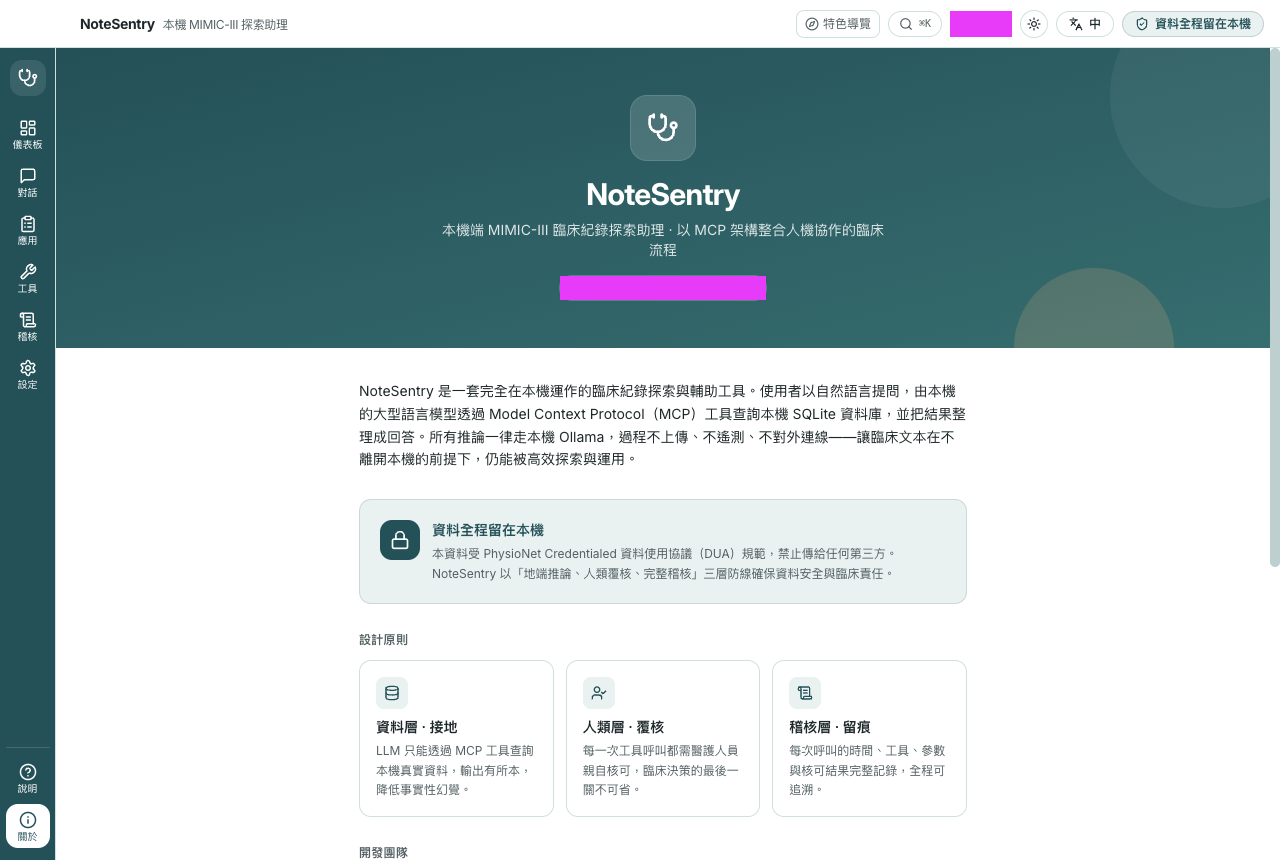
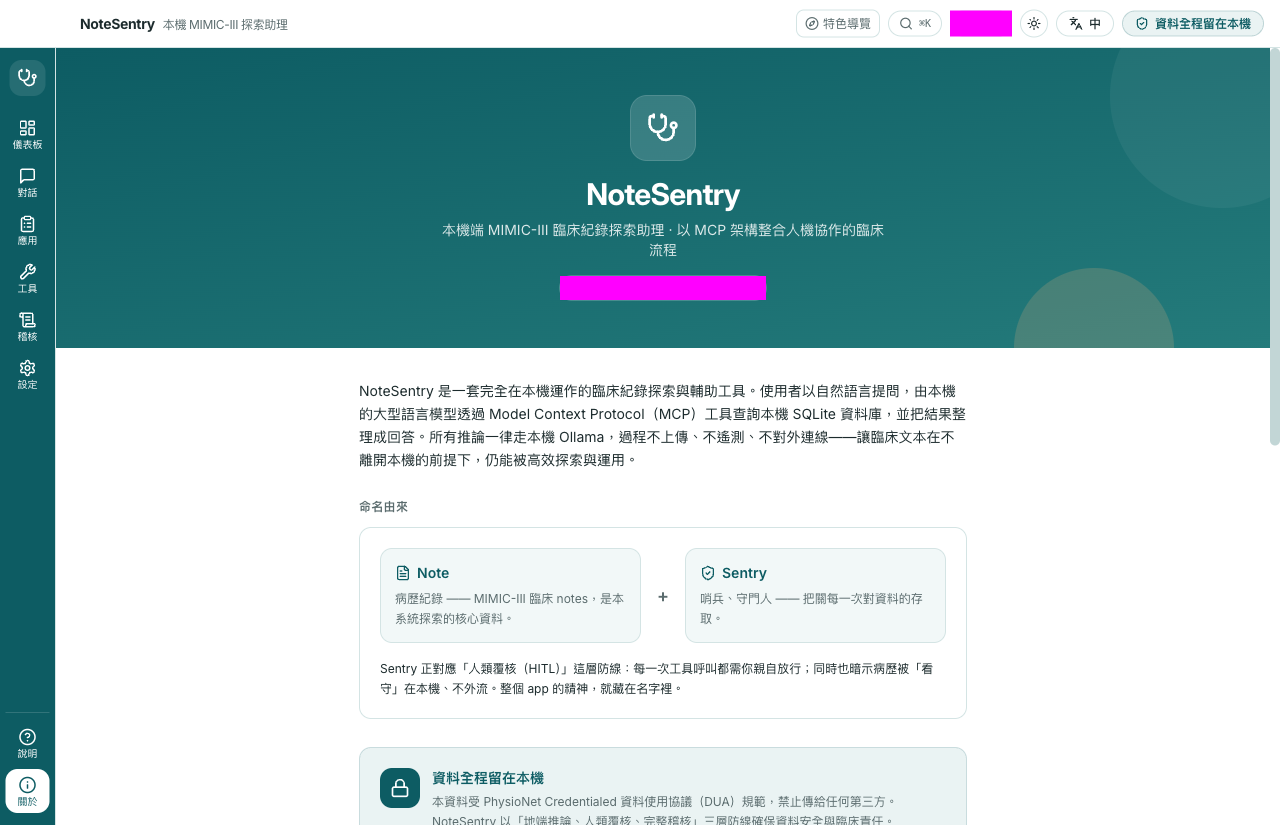
feat(about): add naming rationale section (Note + Sentry)
Explain the app name on the About page: Note = clinical notes, Sentry =
the gatekeeper that corresponds to the human-in-the-loop review line and
hints at data being guarded on-device. Bilingual (zh-TW/en) via the about
i18n namespace, matching existing About card styling. Regenerated the
about visual baseline.

diff --git a/src/renderer/components/About/AboutView.tsx b/src/renderer/components/About/AboutView.tsx
@@ -9,7 +9,8 @@ import {
   ScrollText,
   Cpu,
   Lock,
-  Heart
+  Heart,
+  FileText
 } from 'lucide-react'
 
 const APP_VERSION = '0.3.7'
@@ -55,6 +56,38 @@ export function AboutView(): React.JSX.Element {
       <div className="mx-auto max-w-2xl space-y-7 px-8 py-8">
         {/* 介紹 */}
         <p className="text-sm leading-relaxed text-ink">{t('intro')}</p>
+
+        {/* 命名由來 */}
+        <section>
+          <h2 className="mb-3 text-xs font-semibold uppercase tracking-wide text-ink-muted">
+            {t('name.title')}
+          </h2>
+          <div className="rounded-xl border border-border bg-surface p-5">
+            <div className="flex flex-col gap-3 sm:flex-row sm:items-stretch">
+              <div className="flex-1 rounded-lg border border-border bg-card/60 p-3.5">
+                <div className="flex items-center gap-1.5 text-sm font-semibold text-brand">
+                  <FileText className="h-4 w-4" />
+                  Note
+                </div>
+                <p className="mt-1.5 text-xs leading-relaxed text-ink-muted">{t('name.note')}</p>
+              </div>
+              <div
+                aria-hidden="true"
+                className="flex items-center justify-center text-lg font-semibold text-ink-muted sm:px-1"
+              >
+                +
+              </div>
+              <div className="flex-1 rounded-lg border border-border bg-card/60 p-3.5">
+                <div className="flex items-center gap-1.5 text-sm font-semibold text-brand">
+                  <ShieldCheck className="h-4 w-4" />
+                  Sentry
+                </div>
+                <p className="mt-1.5 text-xs leading-relaxed text-ink-muted">{t('name.sentry')}</p>
+              </div>
+            </div>
+            <p className="mt-4 text-xs leading-relaxed text-ink">{t('name.summary')}</p>
+          </div>
+        </section>
 
         {/* 隱私核心 */}
         <div className="rounded-xl border border-brand/15 bg-card p-5">